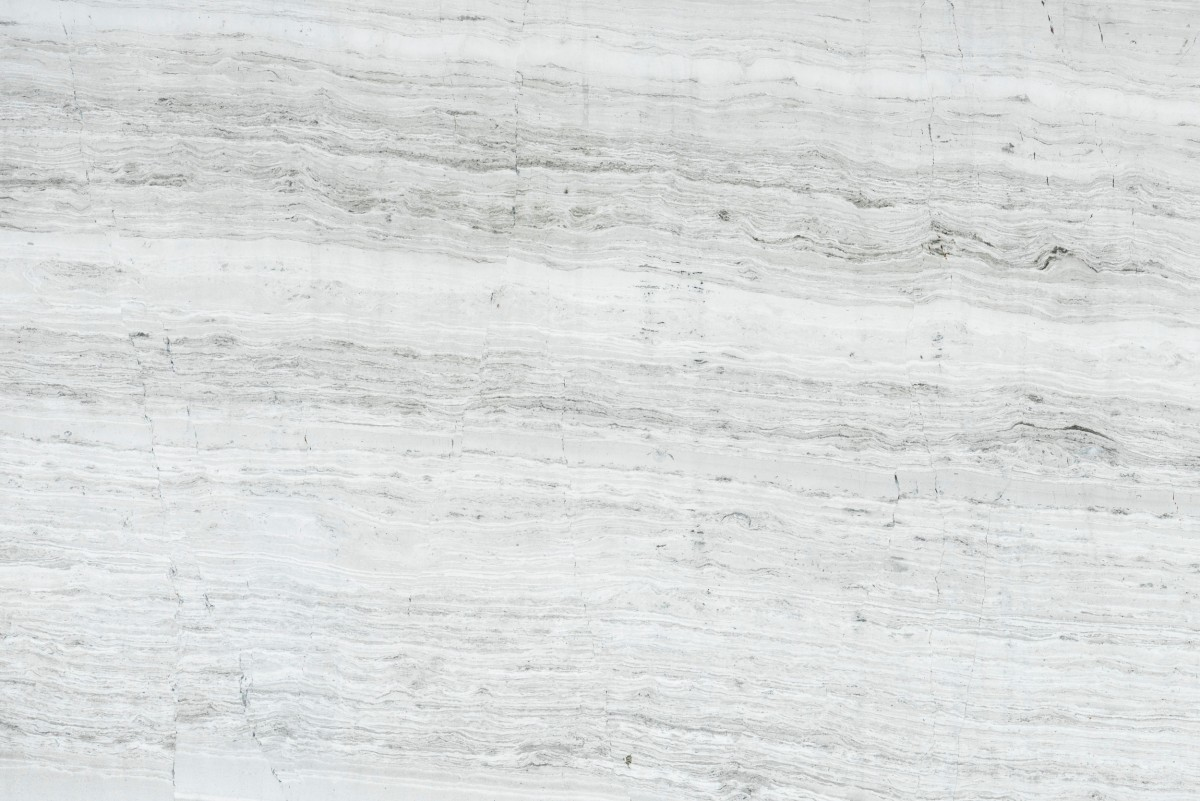
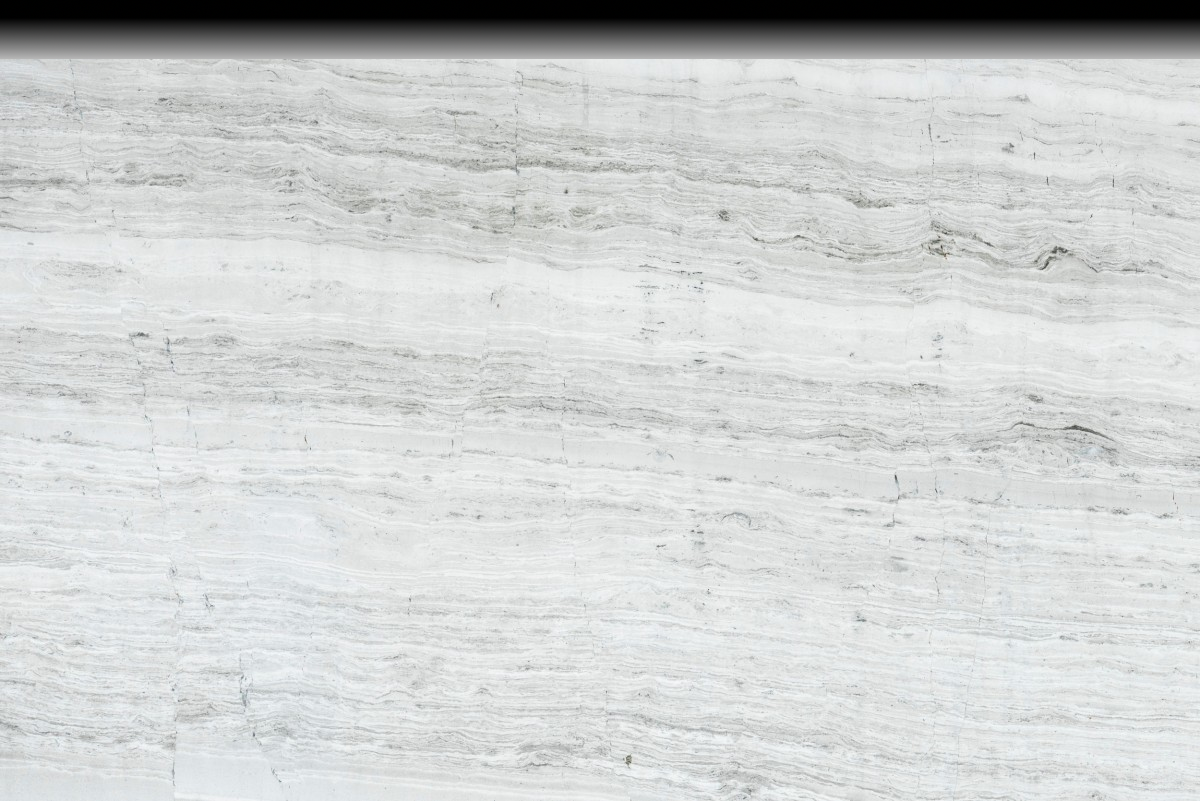
Update final

Changed region(s): [[0.0, 0.0, 1.0, 0.0936]]

diff --git a/VänersborgWebbKonsult/OnePage/css/style.css b/VänersborgWebbKonsult/OnePage/css/style.css
@@ -40,7 +40,7 @@ opacity: 0.5;
 
 #first{
   background-color: black;
-  height: 750px;
+  height: 675px;
   color: white;
 }
 #Intro{
